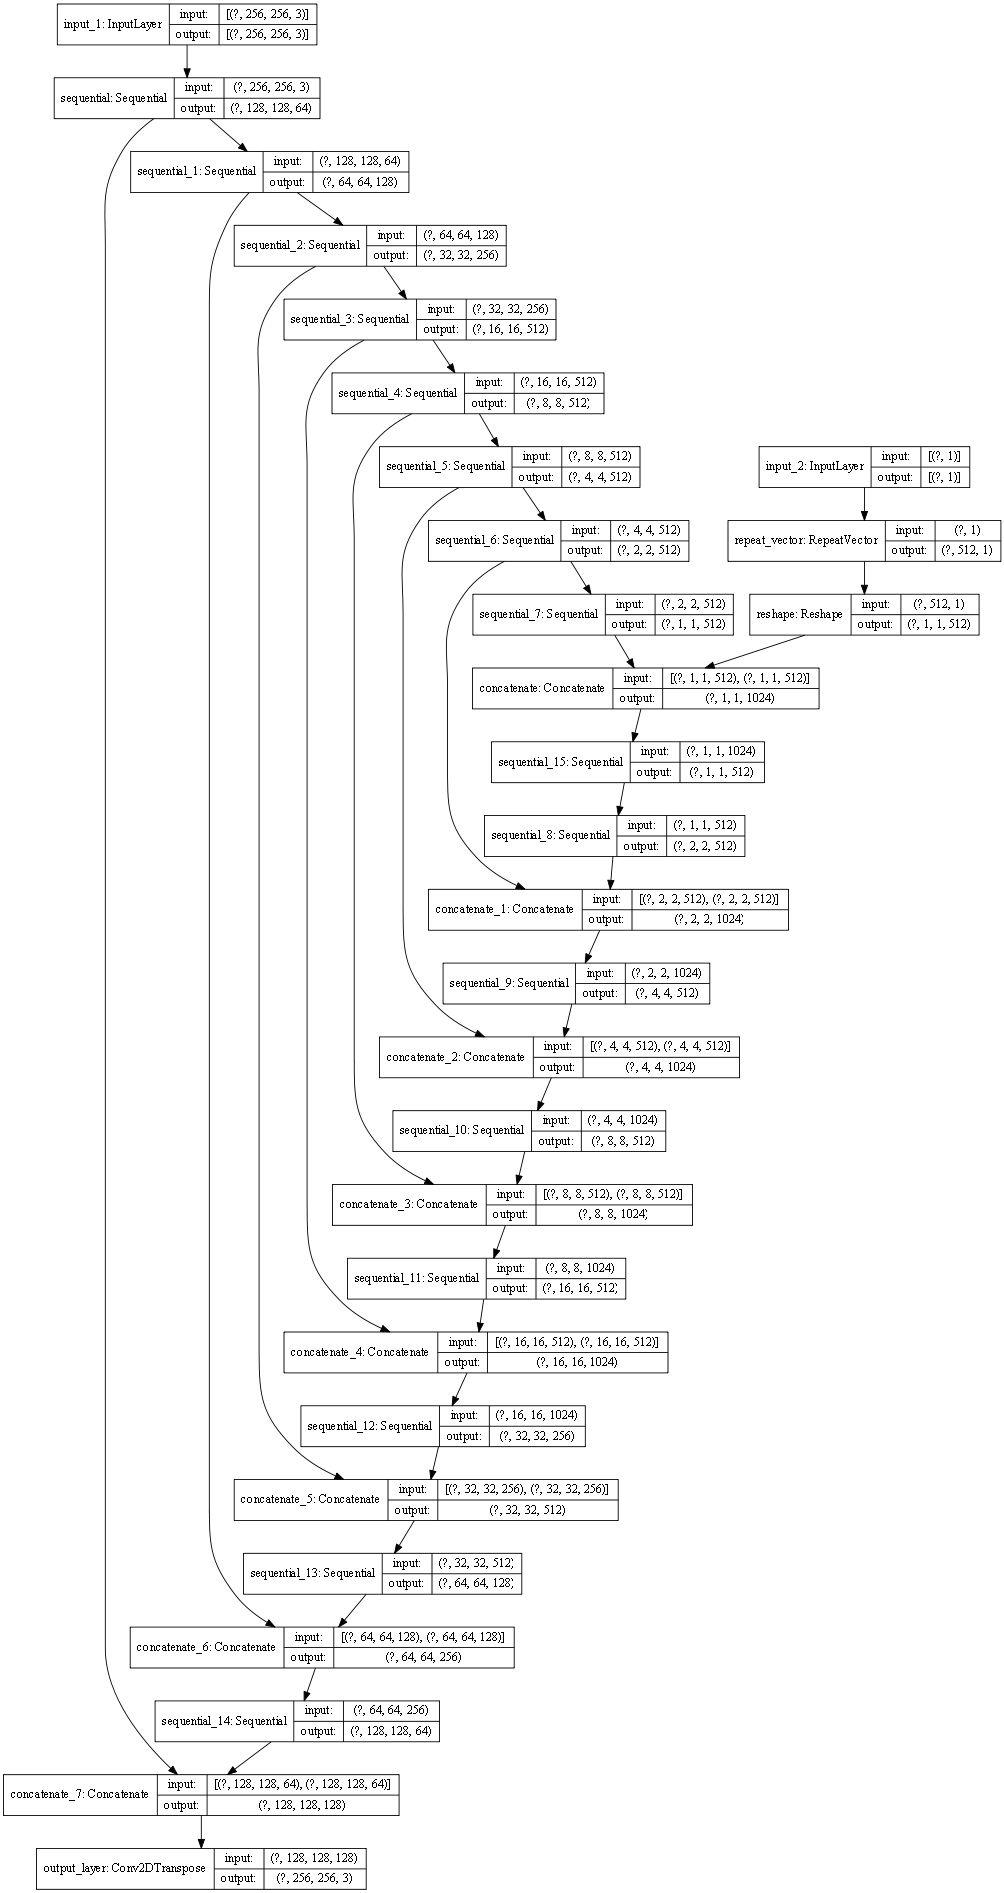
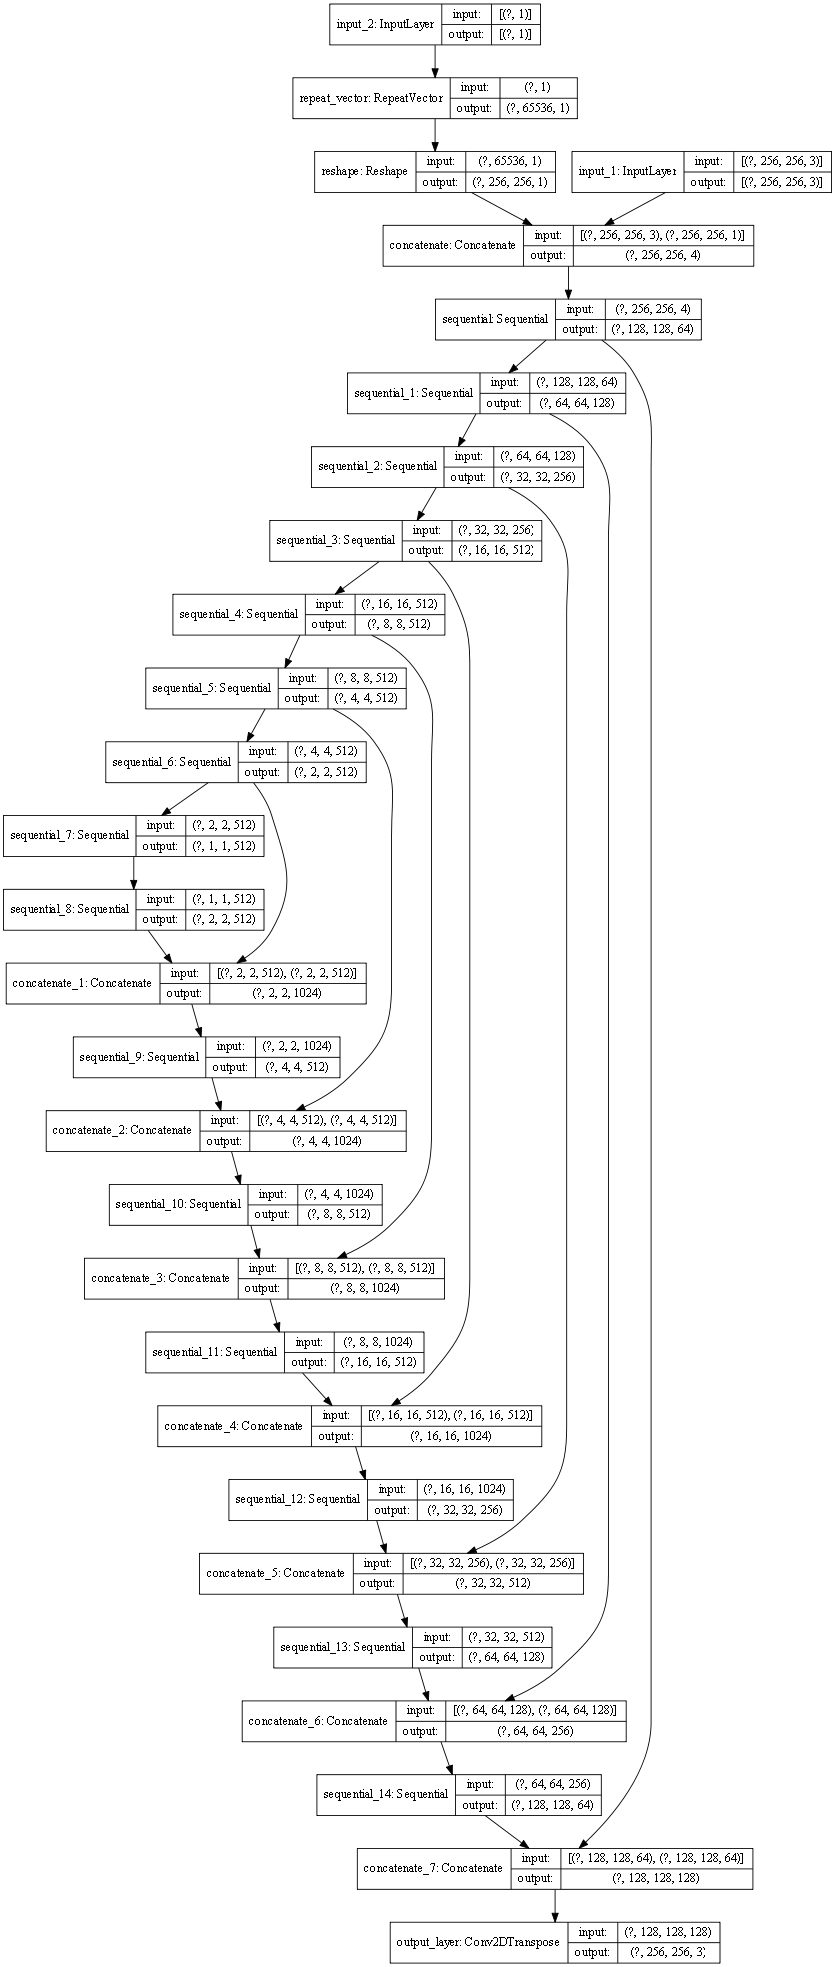
intensity as fourth layer

Changed region(s): [[0.0, 0.0, 1.0, 1.0], [0.1246, 0.8415, 0.1868, 0.8727], [0.0934, 0.6233, 0.1246, 0.6857]]

diff --git a/lib/models.py b/lib/models.py
@@ -86,10 +86,10 @@ class ModelsBuilder:
         image_input = tf.keras.layers.Input(shape=[self.image_height, self.image_height, self.output_channels])
         inputs = image_input
         x = image_input
-        # if use_intensity:
-        #     intensity_input = tf.keras.layers.Input(shape=(1,))
-        #     inputs = [image_input, intensity_input]
-        #     x = self.concatenate_image_and_intensity(x, intensity_input)
+        if use_intensity:
+            intensity_input = tf.keras.layers.Input(shape=(1,))
+            inputs = [image_input, intensity_input]
+            x = self.concatenate_image_and_intensity(x, intensity_input)
 
         down_stack = [
             self.downsample(64, 4, norm_type=norm_type, apply_norm=False),  # (bs, 128, 128, 64)
@@ -128,13 +128,13 @@ class ModelsBuilder:
 
         # TODO : Delete or keep
         ########### Make a 1x1x512 vector of intensity and merge with downsample ########
-        if use_intensity:
-            intensity_input = tf.keras.layers.Input(shape=(1,))
-            inputs = [image_input, intensity_input]
-            intensity = tf.keras.layers.RepeatVector(512)(intensity_input)
-            intensity = tf.keras.layers.Reshape((1, 1, 512))(intensity)
-            x = tf.keras.layers.Concatenate(axis=-1)([x, intensity])
-            x = self.downsample(512, 1, norm_type=norm_type)(x)
+        # if use_intensity:
+        #     intensity_input = tf.keras.layers.Input(shape=(1,))
+        #     inputs = [image_input, intensity_input]
+        #     intensity = tf.keras.layers.RepeatVector(512)(intensity_input)
+        #     intensity = tf.keras.layers.Reshape((1, 1, 512))(intensity)
+        #     x = tf.keras.layers.Concatenate(axis=-1)([x, intensity])
+        #     x = self.downsample(512, 1, norm_type=norm_type)(x)
         #################################################################################
 
         ############ Add Dense Layer - TEST ##########
